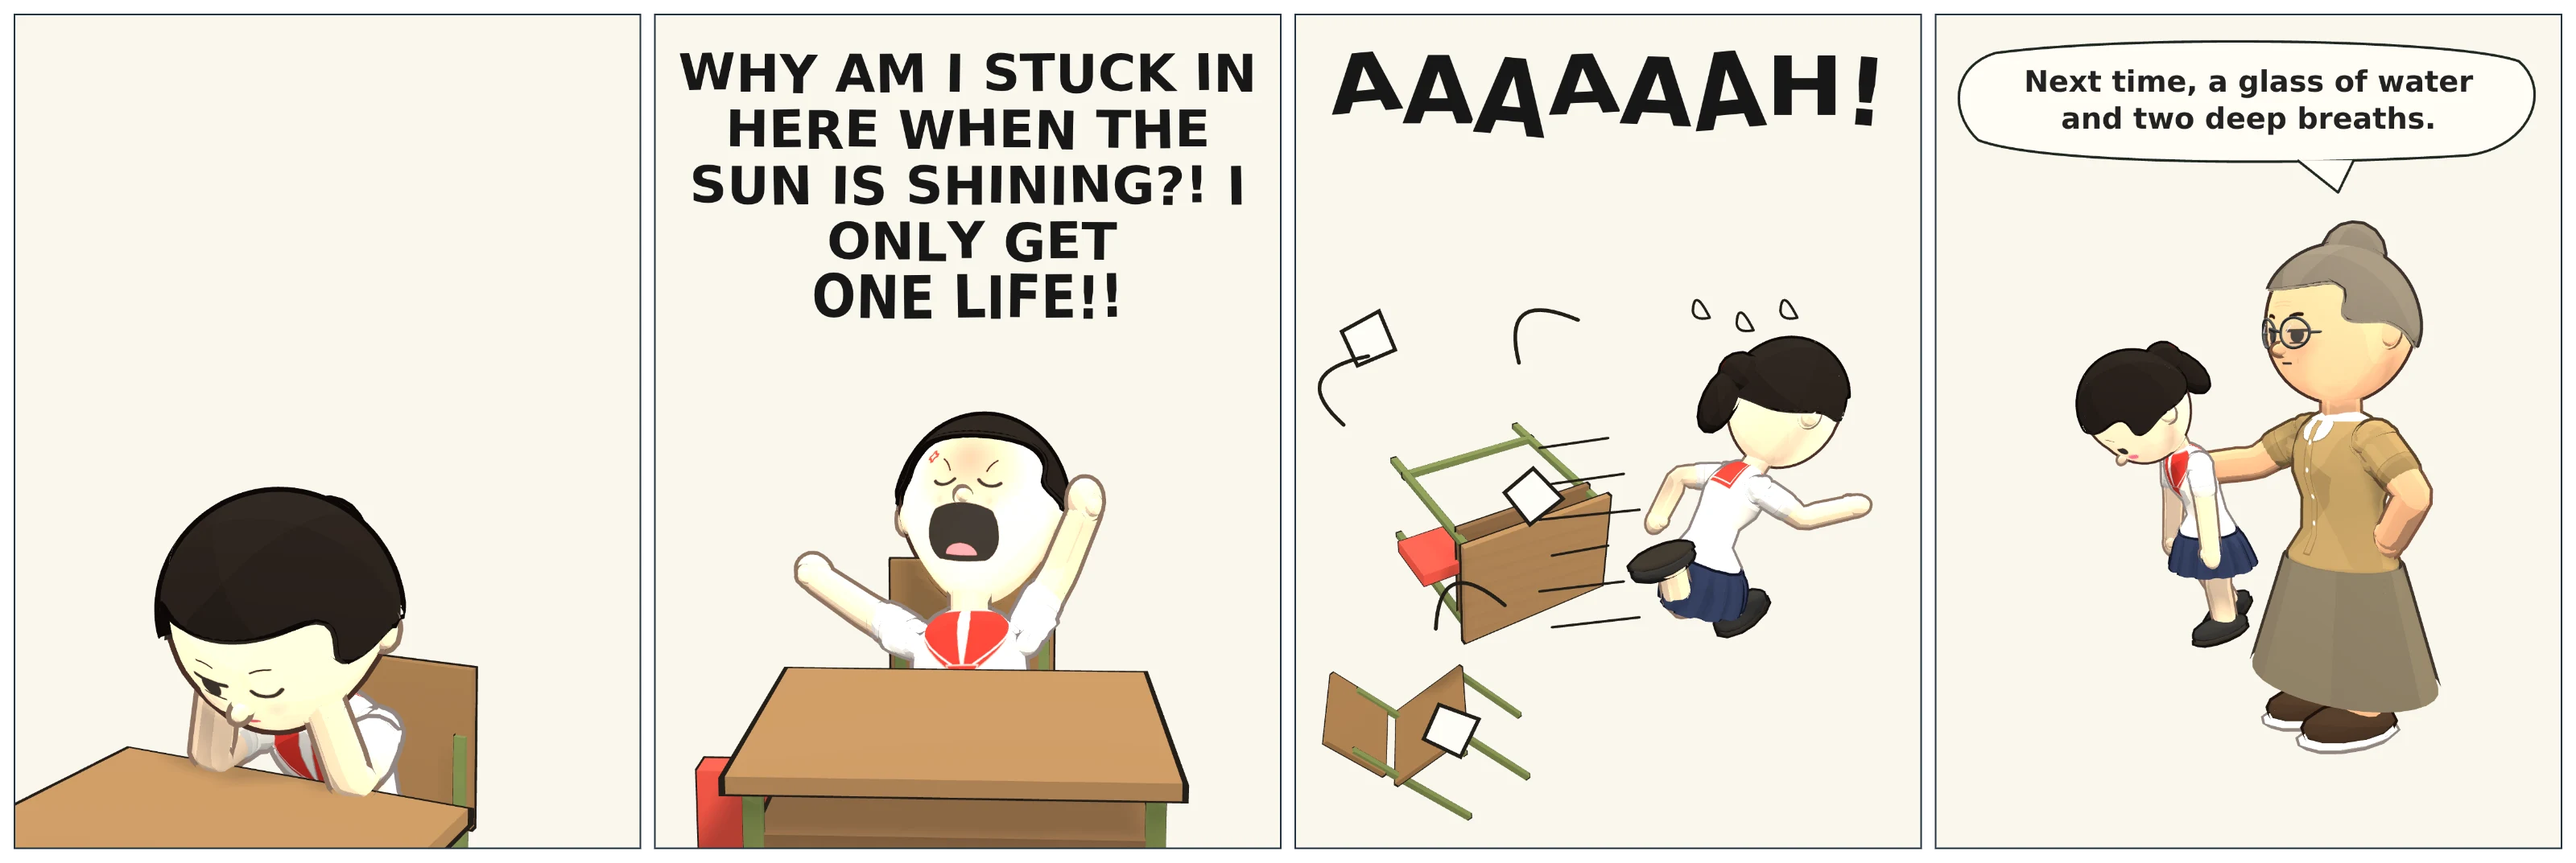
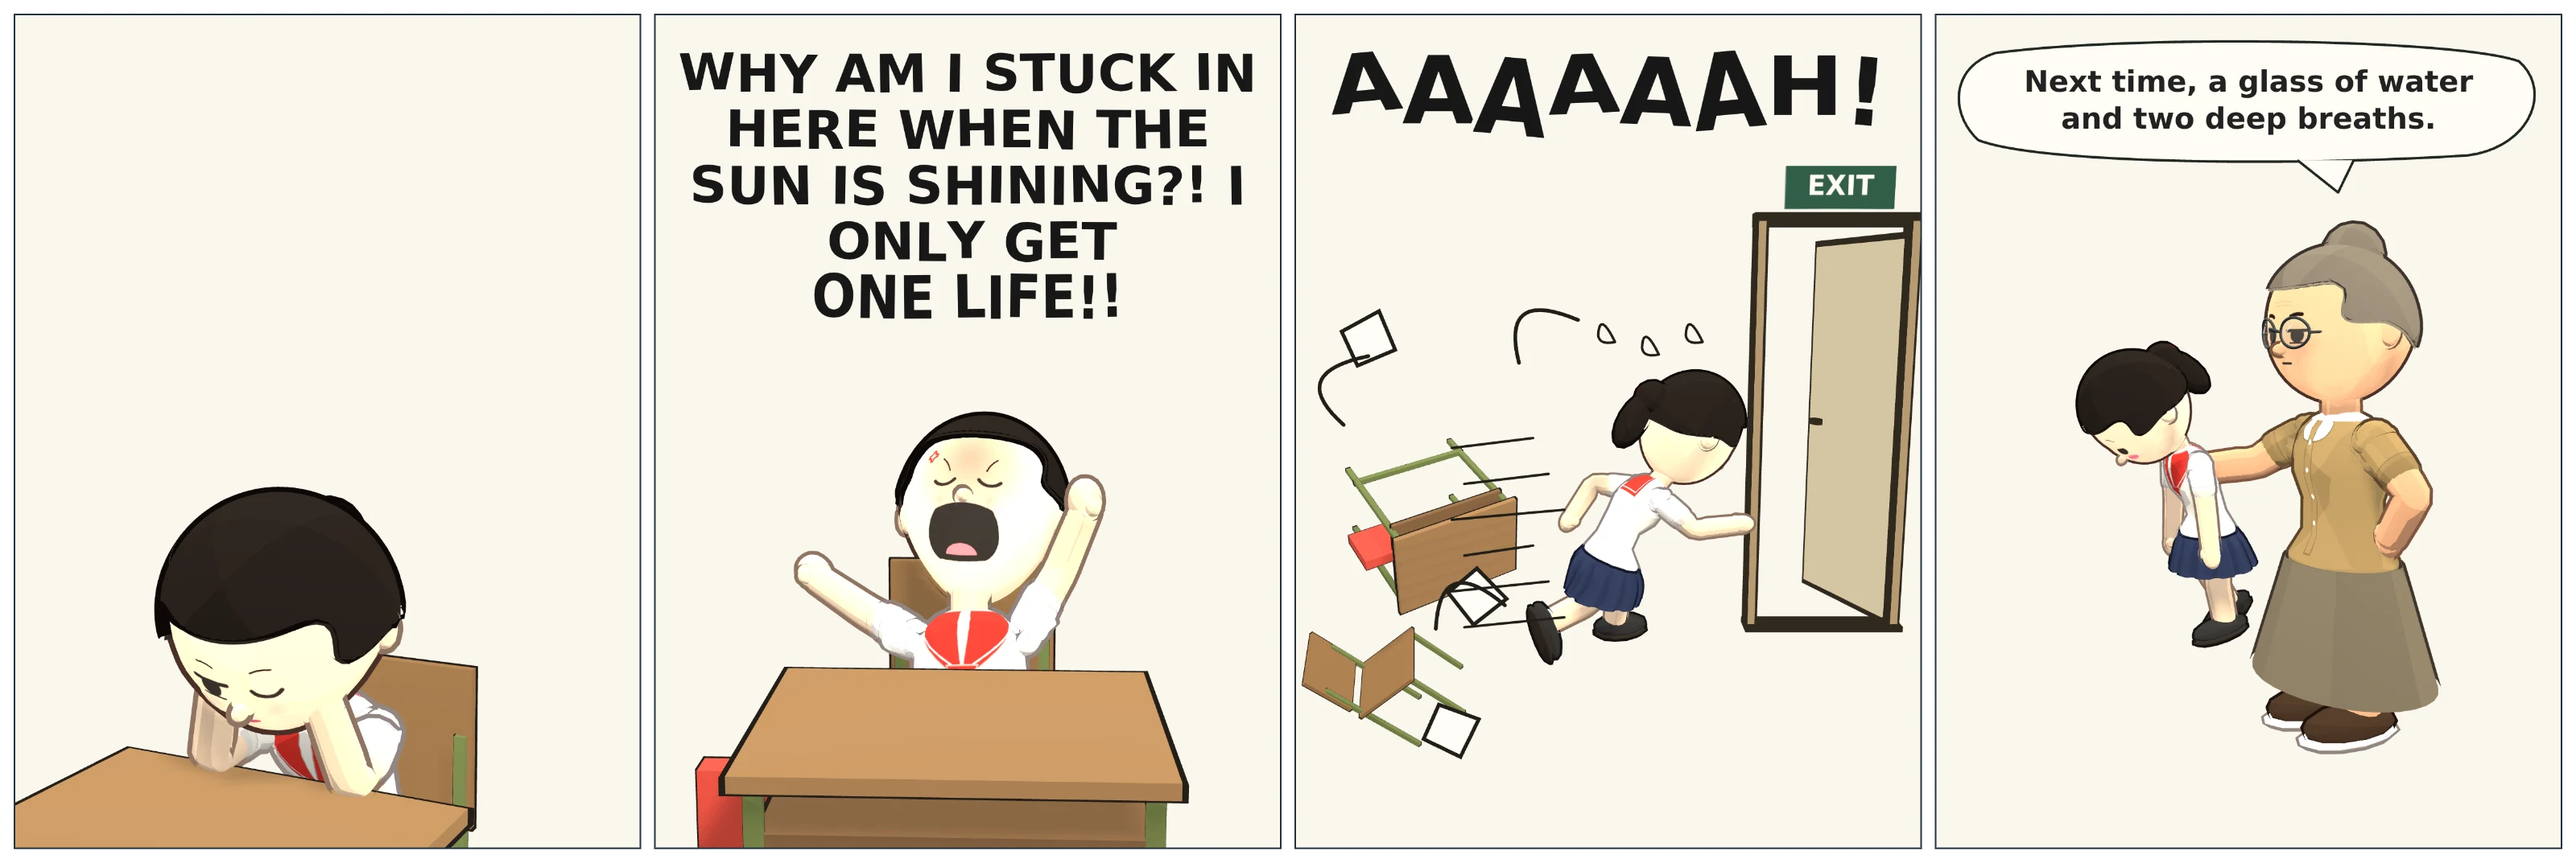
Clarify Vy fleeing towards an open exit

Changed region(s): [[0.5, 0.1845, 0.75, 0.7689], [0.5, 0.7381, 0.5938, 0.9226], [0.5625, 0.9226, 0.5938, 0.9534]]

diff --git a/avatar-creator/scene.js b/avatar-creator/scene.js
@@ -1,13 +1,13 @@
+import {stageComicExit} from './scene-exit.js';
 import {gradientMap} from '../johansson-town/src/render/cel.js';
 import {createSceneFacePainter} from './scene-face.js';
-import {drawShout,drawStatement,drawComicChaos} from './scene-lettering.js?v=20261020-acting';
+import {drawShout,drawStatement,drawComicChaos} from './scene-lettering.js?v=20261020-flight';
 import {CLASSROOM_VIEW} from './classroom-stage.js';
-import {classroomComic} from './classroom-comic.mjs?v=20261020-acting';
+import {classroomComic} from './classroom-comic.mjs?v=20261020-flight';
 import {createSoleFinder} from '../johansson-town/src/avatars/foot-ground.js';
-import {applySceneContacts} from './scene-contact.js?v=20261020-acting';
-import {WORKSHOP_VIEW} from '../johansson-town/src/scene/workshop-view.js';
+import {applySceneContacts} from './scene-contact.js?v=20261020-flight';
 import {filmStaging} from './film-staging.mjs';
-import {KNOWN_EXPRESSIONS,KNOWN_POSES} from './scene-catalogue.mjs?v=20261020-acting';
+import {KNOWN_EXPRESSIONS,KNOWN_POSES} from './scene-catalogue.mjs?v=20261020-flight';
 import {createActingPanel} from './acting/panel.js?v=20261016-1';
 import {sampleTake,normalizeTake} from './acting/takes.mjs';
 import {applyActorFrame} from '../johansson-town/src/avatars/acting.js';
@@ -19,11 +19,11 @@ import {ORIGINAL_THUAN_RECIPE,recipeFor,RESIDENT_NAMES} from '../johansson-town/
 import {STUDIO_CHARACTERS} from '../johansson-town/src/studio/characters-data.js';
 import {normalizeRecipe} from '../johansson-town/src/avatars/recipe.js';
 import {drawCaptions,comicLayout,FORMATS} from '../johansson-town/src/photo/layout.js';
-import {buildSceneWorld} from './scene-world.js?v=20261020-integrated-2';
-import {poseSceneAvatar,placeSceneAvatar,movingPose} from './scene-avatar.js?v=20261020-integrated-2';
-import {SCENE_KEY,MAX_ACTORS,MAX_PANELS,LOCATIONS,emptyScene,normalizeScene,addCharacter,removeCharacter,restoreCharacter,panelOrder,text,placementOf,applyPlacement,samePlacement} from './scene-model.mjs?v=20261020-integrated-2';
+import {buildSceneWorld} from './scene-world.js?v=20261020-flight';
+import {poseSceneAvatar,placeSceneAvatar,movingPose} from './scene-avatar.js?v=20261020-flight';
+import {SCENE_KEY,MAX_ACTORS,MAX_PANELS,LOCATIONS,emptyScene,normalizeScene,addCharacter,removeCharacter,restoreCharacter,panelOrder,text,placementOf,applyPlacement,samePlacement} from './scene-model.mjs?v=20261020-flight';
 import {pickMoment,applyMoment,aim} from './scene-moments.mjs?v=20261011-2';
-import {POSE_GROUPS,EXPRESSION_GROUPS,seatedPose} from './scene-catalogue.mjs?v=20261020-acting';
+import {POSE_GROUPS,EXPRESSION_GROUPS,seatedPose} from './scene-catalogue.mjs?v=20261020-flight';
 import {turnToward,touchAngle,twistTurn,nudgeStep,placeToolbar,pickBox,nearestSeat} from './scene-controls.mjs?v=20261011-2';
 import {SNAP,resolveSnap,snapTurn,stepTurn,edgeLine,lineDistance} from './scene-snap.mjs?v=20261011-2';
 import {touchFirst,dataURLToBlob,canvasToBlob,createReadyFile,bindSaveLink,createPreview,deliverFile} from './studio-share.mjs';
@@ -81,7 +81,7 @@ export function createSceneWorkspace({getCharacter,onEdit,onMode}){
  <label>Left / right<input data-field="x" type="range" min="-12" max="12" step=".01"></label><label>Near / far<input data-field="z" type="range" min="-12" max="12" step=".01"></label>
  <label>Height above floor<input data-field="y" type="range" min="0" max="1.5" step=".01"></label><label>Lifted by<select data-field="liftedBy" aria-label="Lifted by"><option value="">Nobody</option></select></label><label>Use furniture<select data-field="seat" aria-label="Use furniture"><option value="">Stand on ground</option></select></label><button data-action="edit-character">Edit appearance</button><button data-action="duplicate">Duplicate character</button><button data-action="remove">Remove character</button></div></section>
  <section data-pane="text" hidden><h2>Add text</h2><label>Picture style<select data-field="style" aria-label="Picture style"><option value="photo">Photograph with speech bubbles</option><option value="meme">Meme with top and bottom text</option><option value="comic">Comic panel with caption</option></select></label>
- <label>Speech lettering<select data-field="speechStyle"><option value="bubble">Speech bubble</option><option value="shout">Large dramatic shout</option><option value="large">Large readable bubble</option></select></label><label>Action marks<select data-field="effect"><option value="">None</option><option value="dash">Speed lines and crash</option><option value="chaos">Comic chaos and flying papers</option></select></label><label>Backdrop<select data-field="backdrop"><option value="">Full location</option><option value="paper">Plain comic paper</option></select></label><label>Selected character’s speech<input data-field="speech" maxlength="120" placeholder="What are they saying?" aria-label="Selected character’s speech"></label>
+ <label>Speech lettering<select data-field="speechStyle"><option value="bubble">Speech bubble</option><option value="shout">Large dramatic shout</option><option value="large">Large readable bubble</option></select></label><label>Action marks<select data-field="effect"><option value="">None</option><option value="dash">Speed lines and crash</option><option value="chaos">Comic chaos and flying papers</option><option value="escape">Flee towards an open exit</option></select></label><label>Backdrop<select data-field="backdrop"><option value="">Full location</option><option value="paper">Plain comic paper</option></select></label><label>Selected character’s speech<input data-field="speech" maxlength="120" placeholder="What are they saying?" aria-label="Selected character’s speech"></label>
  <label>Top text (meme)<input data-field="top" maxlength="120" placeholder="WHEN THE FERRY IS LATE" aria-label="Top text (meme)"></label><label>Bottom text / caption<input data-field="bottom" maxlength="120" placeholder="Write your punchline…" aria-label="Bottom text / caption"></label></section>
  <section data-pane="export" hidden><h2>Export your picture</h2><p class="scene-label">Picture format</p>${choice('format','Picture format',[['landscape','Landscape'],['square','Square'],['portrait','Portrait']])}
  <div class="scene-save-row"><a class="scene-save scene-primary" data-save="scene">Save picture</a><button data-action="preview">Preview</button></div><p class="scene-save-note"></p><p class="scene-export-status" role="status" aria-live="polite" data-status="scene"></p>
@@ -287,7 +287,7 @@ export function createSceneWorkspace({getCharacter,onEdit,onMode}){
     renderer??=new THREE.WebGLRenderer({antialias:true,preserveDrawingBuffer:true});renderer.setPixelRatio(1);renderer.setSize(w,h,false);renderer.setViewport(0,0,w,h);renderer.outputColorSpace=THREE.SRGBColorSpace;renderer.shadowMap.enabled=true;renderer.shadowMap.type=THREE.PCFSoftShadowMap;
     for(const [id,entry] of avatars)if(!snapshot.actors.some(a=>a.id===id)){clearAvatar(entry);avatars.delete(id);}
     for(const entry of avatars.values())entry.avatar.root.removeFromParent();
-    environment.stage?.(snapshot.furniture);inkProps(environment.furniture,snapshot.backdrop==='paper'&&snapshot.style==='comic');if(snapshot.location==='classroom')for(const [id,o] of Object.entries(environment.furniture||{}))o.scale.setScalar(1.35*(snapshot.furniture?.[id]?.size||1));
+    environment.stage?.(snapshot.furniture);stageComicExit(environment,snapshot.effect==='escape'&&snapshot.backdrop==='paper');inkProps(environment.furniture,snapshot.backdrop==='paper'&&snapshot.style==='comic');if(snapshot.location==='classroom')for(const [id,o] of Object.entries(environment.furniture||{}))o.scale.setScalar(1.35*(snapshot.furniture?.[id]?.size||1));
     if(snapshot.backdrop==='paper'){
      const keep=new Set();for(const o of Object.values(environment.furniture||{}))o.traverse(m=>keep.add(m));
      for(const m of environment.meshes)if(m.visible&&!keep.has(m)){m.visible=false;restore.push(()=>m.visible=true);}
@@ -333,7 +333,7 @@ export function createSceneWorkspace({getCharacter,onEdit,onMode}){
      environment.scene.traverse(o=>{if(o.isHemisphereLight){const before=o.intensity;o.intensity=1.35;restore.push(()=>o.intensity=before);}});
     }
     environment.sky?.update(camera,1,false,false);renderer.render(environment.scene,camera);
-    canvas.width=w;canvas.height=h;ctx.drawImage(renderer.domElement,0,0);if(snapshot.effect==='dash'){const contacts=snapshot.backdrop==='paper'?records.filter(r=>movingPose(r.actor.pose)&&!r.actor.y&&!r.actor.seat).map(r=>{const soles=createSoleFinder(r.avatar)(),side=soles.L.y<soles.R.y?'L':'R',point=r.avatar.root.worldToLocal(r.avatar.bones['foot'+side].getWorldPosition(new THREE.Vector3()));point.y=soles[side].y;point.z=soles[side].z;return r.avatar.root.localToWorld(point).project(camera);}):[];drawDash(ctx,w,h,contacts);}if(snapshot.effect==='chaos')drawComicChaos(ctx,w,h,records.map(r=>headCentre(r.avatar).project(camera)));const overlay=document.createElement('canvas');overlay.width=w;overlay.height=h;drawCaptions(overlay.getContext('2d'),w,h,{style:snapshot.style,top:snapshot.top,bottom:snapshot.bottom,bubbles:bubbles.filter(b=>!b.shout&&!b.large)});ctx.drawImage(overlay,0,0);for(const b of bubbles.filter(b=>b.shout))drawShout(ctx,w,h,b.text);for(const b of bubbles.filter(b=>b.large))drawStatement(ctx,w,h,b.text,b.x);
+    canvas.width=w;canvas.height=h;ctx.drawImage(renderer.domElement,0,0);if(snapshot.effect==='dash'){const contacts=snapshot.backdrop==='paper'?records.filter(r=>movingPose(r.actor.pose)&&!r.actor.y&&!r.actor.seat).map(r=>{const soles=createSoleFinder(r.avatar)(),side=soles.L.y<soles.R.y?'L':'R',point=r.avatar.root.worldToLocal(r.avatar.bones['foot'+side].getWorldPosition(new THREE.Vector3()));point.y=soles[side].y;point.z=soles[side].z;return r.avatar.root.localToWorld(point).project(camera);}):[];drawDash(ctx,w,h,contacts);}if(['chaos','escape'].includes(snapshot.effect))drawComicChaos(ctx,w,h,records.map(r=>headCentre(r.avatar).project(camera)),snapshot.effect==='escape');const overlay=document.createElement('canvas');overlay.width=w;overlay.height=h;drawCaptions(overlay.getContext('2d'),w,h,{style:snapshot.style,top:snapshot.top,bottom:snapshot.bottom,bubbles:bubbles.filter(b=>!b.shout&&!b.large)});ctx.drawImage(overlay,0,0);for(const b of bubbles.filter(b=>b.shout))drawShout(ctx,w,h,b.text);for(const b of bubbles.filter(b=>b.large))drawStatement(ctx,w,h,b.text,b.x);
     // Where each character is on the picture (fractions of it), for picking, the outline and the toolbar.
     const right=new THREE.Vector3().setFromMatrixColumn(camera.matrixWorld,0);
     boxes=placed.map(p=>{const corners=[];for(const x of [p.box.min.x,p.box.max.x])for(const y of [p.box.min.y,p.box.max.y])for(const z of [p.box.min.z,p.box.max.z])corners.push(new THREE.Vector3(x,y,z).project(camera));

diff --git a/avatar-creator/scene-avatar.js b/avatar-creator/scene-avatar.js
@@ -30,7 +30,7 @@ export function poseSceneAvatar(avatar,{pose='Idle',expression='smile',turn=0,se
  if(custom==='SchoolRest'){b.spine.rotation.x=.14;b.chest.rotation.x=.62;b.head.rotation.x=-.26;b.head.scale.set(1.06,.93,1);b.shoulderL.rotation.set(-1.2,0,.25);b.elbowL.rotation.x=-1.7;b.shoulderR.rotation.set(-1.2,0,-.25);b.elbowR.rotation.x=-1.7;}
  if(custom==='SchoolProtest'){b.hips.rotation.x=-.08;b.chest.rotation.set(-.32,0,.08);b.head.rotation.set(-.28,0,-.10);b.shoulderL.rotation.set(-.15,.1,2.6);b.shoulderR.rotation.set(-.5,-.12,-2.15);b.elbowL.rotation.x=-.65;b.elbowR.rotation.x=-.18;b.handL.rotation.z=.4;b.handR.rotation.z=-.35;}
  if(custom==='SchoolRun'){b.hips.rotation.x=.16;b.chest.rotation.x+=.22;b.head.rotation.x-=.08;b.shoulderL.rotation.x*=1.35;b.shoulderR.rotation.x*=1.35;b.elbowL.rotation.x=-1.45;b.elbowR.rotation.x=-1.45;let ground=supports.get(avatar);if(!ground){ground=createFootGrounder(avatar);supports.set(avatar,ground);}ground(0);}
- if(custom==='SchoolEscape'){b.hips.rotation.set(.25,0,.07);b.chest.rotation.set(.40,-.12,0);b.head.rotation.x=-.18;b.thighL.rotation.set(-1.25,0,.12);b.thighR.rotation.set(.85,0,-.12);b.kneeL.rotation.x=.5;b.kneeR.rotation.x=1.8;b.shoulderL.rotation.set(.9,0,.35);b.shoulderR.rotation.set(-1.6,0,-.3);b.elbowL.rotation.x=-1.1;b.elbowR.rotation.x=-.8;}
+ if(custom==='SchoolEscape'){b.hips.rotation.set(.35,0,.04);b.chest.rotation.set(.44,-.08,0);b.head.rotation.x=-.22;b.thighL.rotation.set(-1.05,0,.12);b.thighR.rotation.set(.65,0,-.12);b.kneeL.rotation.x=.75;b.kneeR.rotation.x=.3;b.shoulderL.rotation.set(.9,0,.35);b.shoulderR.rotation.set(-1.6,0,-.3);b.elbowL.rotation.x=-1.1;b.elbowR.rotation.x=-.8;let ground=supports.get(avatar);if(!ground){ground=createFootGrounder(avatar);supports.set(avatar,ground);}ground(0);}
  if(custom==='ComicLeap'){b.hips.rotation.x=.25;b.chest.rotation.x=.28;b.head.rotation.x=-.24;b.thighL.rotation.set(-1.15,0,.12);b.thighR.rotation.set(.8,0,-.1);b.kneeL.rotation.x=.9;b.kneeR.rotation.x=1.9;b.shoulderL.rotation.set(-.6,0,1.9);b.shoulderR.rotation.set(.5,0,-1.4);b.elbowL.rotation.x=-.2;b.elbowR.rotation.x=-.3;}
  if(custom==='LiftedBack'&&expression==='embarrassed'){b.hips.rotation.x=.13;b.spine.rotation.x=.1;b.chest.rotation.x=.22;b.head.rotation.x=.48;b.head.rotation.z=-.08;}
  if(custom==='LiftedBack'){b.shoulderL.rotation.set(-.36,0,.08);b.shoulderR.rotation.set(-.38,0,-.08);b.elbowL.rotation.x=-.03;b.elbowR.rotation.x=-.06;b.thighL.rotation.x=-.12;b.thighR.rotation.x=.15;b.kneeL.rotation.x=.20;b.kneeR.rotation.x=.30;}

diff --git a/avatar-creator/scene-exit.js b/avatar-creator/scene-exit.js
@@ -1,0 +1,24 @@
+import * as THREE from '../johansson-town/vendor/three.module.js';
+
+const stages=new WeakMap();
+/** An open doorway gives paper-comic flight a destination. This is a Studio prop, without World collisions. */
+export function stageComicExit(environment,visible){
+ let stage=stages.get(environment);
+ if(!stage&&visible){
+  const root=new THREE.Group(),geometry=[],materials=[];
+  root.name='Comic exit doorway';root.position.fromArray(environment.origin);root.position.x+=.9;root.position.z-=.45;
+  const material=colour=>{const m=new THREE.MeshBasicMaterial({color:colour});materials.push(m);return m;};
+  const ink=material('#30291f'),wood=material('#b69a72'),panel=material('#d5c5a2');
+  const box=(parent,x,y,z,w,h,d,mat)=>{const g=new THREE.BoxGeometry(w,h,d);geometry.push(g);const m=new THREE.Mesh(g,mat);m.position.set(x,y,z);parent.add(m);return m;};
+  for(const x of [0,.75]){box(root,x,1.05,0,.065,2.1,.09,ink);box(root,x,1.05,.05,.035,2.08,.012,wood);}
+  box(root,.375,2.1,0,.82,.065,.09,ink);box(root,.375,.015,.02,.82,.03,.14,ink);
+  const hinge=new THREE.Group();hinge.position.set(.75,0,0);hinge.rotation.y=-1.15;root.add(hinge);
+  box(hinge,-.36,1.025,0,.72,2.04,.045,ink);box(hinge,-.36,1.025,.028,.66,1.97,.015,panel);box(hinge,-.61,1.02,.055,.07,.035,.04,ink);
+  const canvas=document.createElement('canvas');canvas.width=256;canvas.height=96;const ctx=canvas.getContext('2d');ctx.fillStyle='#315e49';ctx.fillRect(0,0,256,96);ctx.fillStyle='#fffdf4';ctx.font='900 62px sans-serif';ctx.textAlign='center';ctx.textBaseline='middle';ctx.fillText('EXIT',128,49);
+  const texture=new THREE.CanvasTexture(canvas);texture.colorSpace=THREE.SRGBColorSpace;
+  const sign=new THREE.MeshBasicMaterial({map:texture});materials.push(sign);box(root,.375,2.25,.02,.53,.20,.025,sign);
+  environment.scene.add(root);stage={root,dispose(){root.removeFromParent();for(const g of geometry)g.dispose();for(const m of materials)m.dispose();texture.dispose();}};stages.set(environment,stage);
+  const dispose=environment.dispose;environment.dispose=()=>{stage.dispose();dispose?.call(environment);};
+ }
+ if(stage)stage.root.visible=visible;
+}

diff --git a/avatar-creator/scene-lettering.js b/avatar-creator/scene-lettering.js
@@ -30,11 +30,11 @@ export function drawStatement(ctx,w,h,text,speaker=.5){
 }
 
 /** Ink accents on the paper layer: tumbling sheets, impact arcs and panic droplets. */
-export function drawComicChaos(ctx,w,h,heads=[]){
+export function drawComicChaos(ctx,w,h,heads=[],escaping=false){
  ctx.save();ctx.strokeStyle='#211e19';ctx.fillStyle='#fffdf6';ctx.lineWidth=w*.006;ctx.lineCap='round';
- for(const [x,y,r] of [[.12,.39,-.5],[.38,.58,.8],[.25,.86,.35]]){ctx.save();ctx.translate(x*w,y*h);ctx.rotate(r);ctx.beginPath();ctx.moveTo(-w*.034,-h*.025);ctx.lineTo(w*.034,-h*.025);ctx.lineTo(w*.027,h*.025);ctx.lineTo(-w*.038,h*.02);ctx.closePath();ctx.fill();ctx.stroke();ctx.restore();}
+ for(const [x,y,r] of [[.12,.39,-.5],[escaping?.29:.38,escaping?.70:.58,.8],[.25,.86,.35]]){ctx.save();ctx.translate(x*w,y*h);ctx.rotate(r);ctx.beginPath();ctx.moveTo(-w*.034,-h*.025);ctx.lineTo(w*.034,-h*.025);ctx.lineTo(w*.027,h*.025);ctx.lineTo(-w*.038,h*.02);ctx.closePath();ctx.fill();ctx.stroke();ctx.restore();}
  for(const [x,y,r] of [[.13,.48,-.3],[.27,.76,.6],[.41,.43,.3]]){ctx.save();ctx.translate(x*w,y*h);ctx.rotate(r);ctx.beginPath();ctx.moveTo(-w*.055,0);ctx.quadraticCurveTo(-w*.12,-h*.08,w*.015,-h*.07);ctx.stroke();ctx.restore();}
- ctx.lineWidth=w*.004;for(let i=0;i<6;i++){const y=h*(.52+i*.043);ctx.beginPath();ctx.moveTo(w*(.39+i%2*.02),y);ctx.lineTo(w*(.50+i%3*.025),y-h*.012);ctx.stroke();}
+ ctx.lineWidth=w*.004;for(let i=0;i<6;i++){const y=h*(.52+i*.043);ctx.beginPath();ctx.moveTo(w*((escaping?.25:.39)+i%2*.02),y);ctx.lineTo(w*((escaping?.38:.50)+i%3*.025),y-h*.012);ctx.stroke();}
  for(const head of heads){const x=(head.x+1)*w*.5,y=(1-head.y)*h*.5;for(let i=0;i<3;i++){const dx=w*(-.12+i*.07),dy=h*(-.09-Math.abs(i-1)*.015);ctx.beginPath();ctx.moveTo(x+dx,y+dy);ctx.quadraticCurveTo(x+dx-w*.025,y+dy-h*.038,x+dx-w*.027,y+dy-h*.008);ctx.quadraticCurveTo(x+dx-w*.025,y+dy+h*.004,x+dx,y+dy);ctx.stroke();}}
  ctx.restore();
 }

diff --git a/avatar-creator/studio.js b/avatar-creator/studio.js
@@ -4,7 +4,7 @@ import {openCreator} from '../johansson-town/src/avatars/creator.js';
 import {ORIGINAL_THUAN_RECIPE,recipeFor,RESIDENT_NAMES} from '../johansson-town/src/avatars/cast.js';
 import {STUDIO_CHARACTERS} from '../johansson-town/src/studio/characters-data.js';
 import {normalizeRecipe,decodeRecipe} from '../johansson-town/src/avatars/recipe.js';
-import {createSceneWorkspace} from './scene.js?v=20261020-integrated-2';
+import {createSceneWorkspace} from './scene.js?v=20261020-flight';
 import {createWorldPanel} from './world-panel.js?v=20261011-1';
 import {createHomeWorkspace} from './home.js?v=20261011-1';
 import {createModelWorkspace} from './model.js?v=20261020-workshop';

diff --git a/avatar-creator/index.html b/avatar-creator/index.html
@@ -26,7 +26,7 @@
 <body class="creator-page standalone-studio">
   <noscript>Enable JavaScript to create your character.</noscript>
   <p id="loading" role="status">Loading Johansson Studio…</p>
-  <script type="module" src="/avatar-creator/studio.js?v=20261020-integrated-2"></script>
+  <script type="module" src="/avatar-creator/studio.js?v=20261020-flight"></script>
 </body>
 </html>
 

diff --git a/avatar-creator/docs/CLASSROOM-COMIC.md b/avatar-creator/docs/CLASSROOM-COMIC.md
@@ -59,3 +59,5 @@ Studio applies the extreme face painting to the relevant comic poses and express
 Paper comics add furniture silhouette ink and two-band shading on clothes/hair/props while retaining the face ramp for readable acting; the normal location materials and light levels are restored afterwards. No World character recipes or playable room assets are changed.
 
 Validation: 13 scene/motion checks; browser project round trips at 820×1180 and 390×844 including furniture sizing, replacement, export, timeline seek/rewind and playback. The current stretched collar lift has a measured target error of about 4.1 mm. This is an endpoint check rather than a guarantee of cloth simulation. Physical-device Safari remains untested.
+
+The flight clarification adds an open Studio-only exit ahead of Vy, lowers the sprint to a 4 cm flight phase above its grounded shoe support, lengthens the trailing leg and leaves the tumbling furniture behind. The escape action-mark preset includes the doorway; its geometry and sign texture are disposed with the scene and it does not change World collisions. Motion marks are kept behind the running silhouette.
